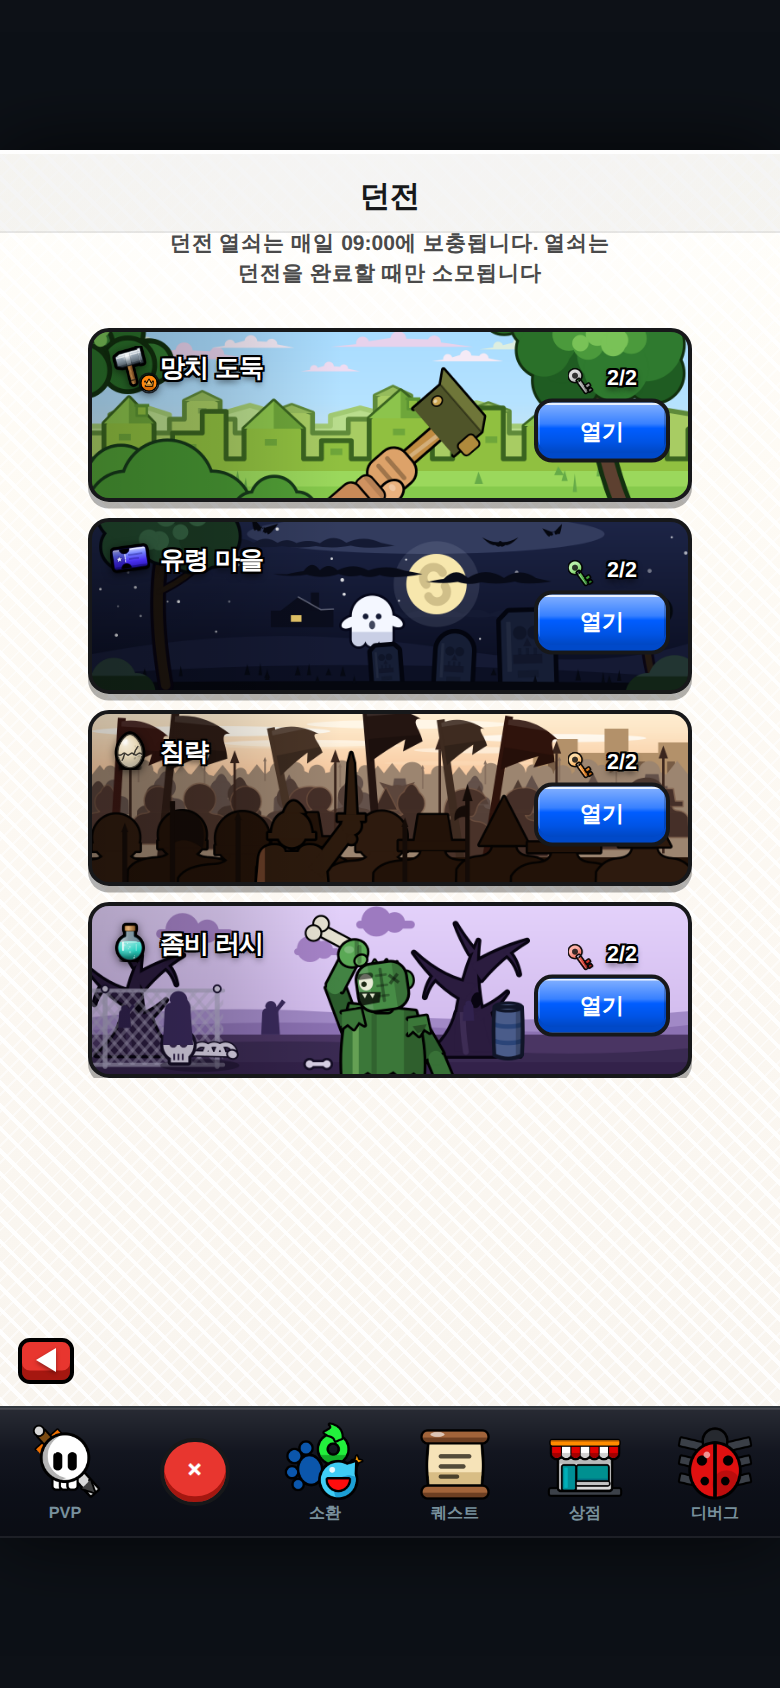
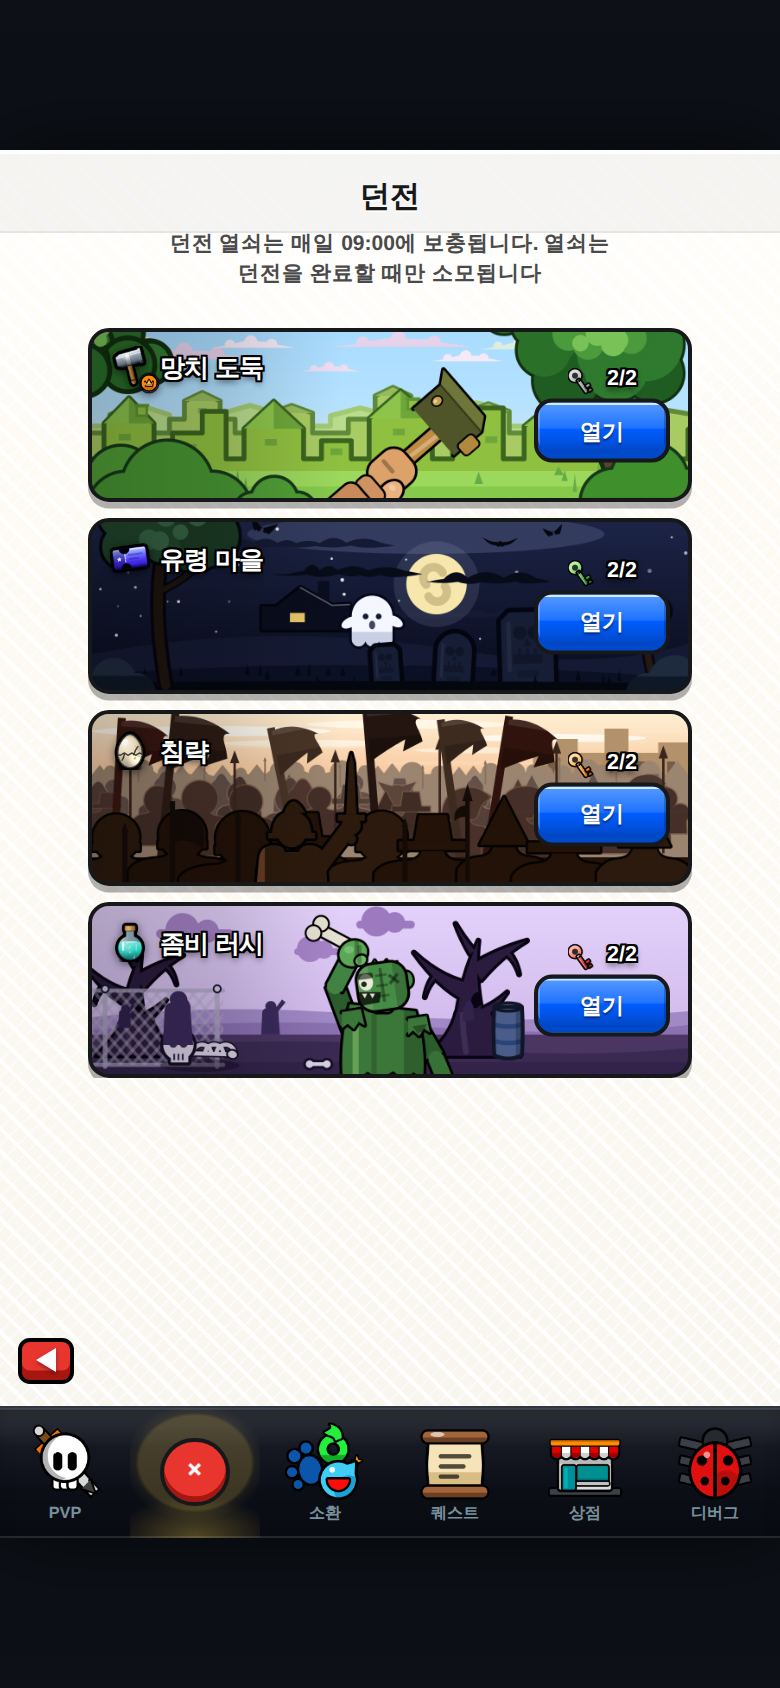
던전 행 R8 잔여 지적 ⓐⓑⓒⓔⓕ 반영 — 단독 지적이지만 **원본 대조로 실재가 확인된 것만** 채택
R8 은 2인 교집합을 앞 커밋에서 이미 반영했다. 남은 건 한쪽만 낸 지적이라, 규약대로 원본
(shot-042251) 확대 대조로 실재를 확인한 것만 골랐다.

■ ⓐ ③ 중경이 '동일 삼각형 등간격 테셀레이션'(A6) — 원본 중경은 투구가 한 명씩 갈린다: 크기 편차를 0.60 폭 → 1.05~1.10 폭으로 벌리고 세로 지터 확대, 위 밴드에도 톤 윤곽을 둘러 개체 분절. 실루엣 어휘에 **둥근 방패(kind 7)** 신설 — 투구 일변도를 깬다
■ ⓑ ① 우측 나무 줄기가 캐노피 밖으로 길게 드러나 '가로등/기둥'(A13·B7) — 원본 우측 나무는 위 모서리에서 늘어진 잎 덩어리라 줄기가 거의 안 보인다: 줄기를 1.02H→0.86H 로 짧게 하고 우하단 모서리 덤불을 하나 더해 밑동을 물렸다(원본도 우하단이 어두운 잎 덩어리)
■ ⓒ ① 주먹·팔뚝 가로 줄무늬가 '붕대/소매'(B8) — 손가락 골 2줄 관통 → **한 줄·왼 절반만**, 주먹 밑 접힘 가로선 삭제, 팔뚝 그늘을 가로 띠에서 **오른 가장자리 세로 한 단**으로 이동
■ ⓔ ② 오두막이 1x 에서 '주황 점 박힌 얼룩'(A12) — 1.4배 확대 + 순검정 키라인(스트로크→채움 합집합)으로 '집' 판독 확정
■ ⓕ ② 좌우 하단 모서리 수풀·우측 나무 잎만 채도 있는 초록이라 밤 팔레트에서 튄다(A11) — 남청 계열로 이동(#122417→#0e1826, 캐노피·달빛 림 포함)

**불채택 ⓓ ④ 좀비 얼굴 디테일 축소(A9 단독)**: 이 자리는 라운드마다 뒤집힌 곳이다 — 6차에 '정면 점눈+이빨 = 귀여운 로봇'으로 금지했다가, 그 뒤 비평가 2쌍이 연속으로 '얼굴 단서 0 = 선인장/봉제인형'이라 해서 3/4 측면 얼굴(눈 1+턱+윗니)을 채택했다. 이번엔 A 혼자 반대편을 냈고 B 는 언급이 없다. **2인 공통이 만든 결정을 1인 지적으로 되물리지 않는다** — 다음 라운드에서 2인이 같이 지적하면 그때 되물리고 근거를 남길 것.

검증: probe-dungeon-value 0/48 유지 · probe-dungeons-px 최대 편차 -1.45%p·초과 0건 · probe-dungeon-title-ink 4행 통과 · probe-screens-errors 31/31 콘솔 0 · node --check 통과 (dungeon-row-quality)

diff --git a/web/js/icongen.js b/web/js/icongen.js
@@ -3808,7 +3808,7 @@ IconGen._genderSym = function (ctx, S, female) {
             [[H * 0.026, '#12300f'], [0, '#5d4030']].forEach(([pad, c]) => {   // 줄기 2획(키라인 언더레이 — R2 공통)
                 ctx.strokeStyle = c; ctx.lineCap = 'round';
                 ctx.lineWidth = H * 0.075 + pad * 2;
-                ctx.beginPath(); ctx.moveTo(tx + H * 0.10, H * 1.02); ctx.quadraticCurveTo(tx - H * 0.06, H * 0.62, tx - H * 0.02, H * 0.30); ctx.stroke();
+                ctx.beginPath(); ctx.moveTo(tx + H * 0.07, H * 0.86); ctx.quadraticCurveTo(tx - H * 0.05, H * 0.60, tx - H * 0.02, H * 0.30); ctx.stroke();
                 ctx.lineWidth = H * 0.045 + pad * 2;
                 ctx.beginPath(); ctx.moveTo(tx - H * 0.03, H * 0.52); ctx.quadraticCurveTo(tx - H * 0.22, H * 0.42, tx - H * 0.30, H * 0.28); ctx.stroke();
                 ctx.lineCap = 'butt';
@@ -3851,6 +3851,7 @@ IconGen._genderSym = function (ctx, S, female) {
         bush(W * 0.04, H * 0.98, 1.5, '#519f36', '#16391a');
         bush(W * 0.115, H * 1.05, 2.0, '#489733', '#16391a');
         bush(W * 0.30, H * 1.06, 1.0, '#519f36', '#16391a');
+        bush(W * 0.925, H * 1.00, 1.7, '#3f8f2c', '#16391a');   // R8-2 A13·B7: 우측 나무 밑동을 모서리 덤불이 물어 '가로등 기둥' 오독 해소(원본도 우하단이 어두운 잎 덩어리다)
         // 좌상단 늘어진 수풀 — 원본은 좌우 가장자리가 잎으로 채워져 프레임이 꽉 찬다(비평가 4차 '성김')
         for (let i = 0; i < 7; i++) {
             const x = W * (-0.015 + R() * 0.115), y = H * (-0.08 + R() * 0.32), r = H * (0.105 + R() * 0.085);
@@ -3888,8 +3889,7 @@ IconGen._genderSym = function (ctx, S, female) {
            **걷어내고 한 덩어리 주먹**으로 단순화(원본의 해법 — 작고 단순한 주먹). 감아쥔 그립은
            스캘럽이 아니라 얕은 손가락 골 2줄 + 엄지가 말한다. */
         ink(ctx, S, rrect(ctx, S, -0.132, -0.145, 0.264, 0.290, 0.095), '#dda269', 0.034);
-        [-0.052, 0.026].forEach(y =>                                                      // 손가락 골(자루와 직교, 2줄만)
-            on(ctx, rrect(ctx, S, -0.104, y, 0.204, 0.030, 0.015), 'rgba(0,0,0,.28)'));
+        on(ctx, rrect(ctx, S, -0.104, -0.020, 0.118, 0.028, 0.014), 'rgba(0,0,0,.28)');   // 손가락 골 — 한 줄, 왼 절반만(가로로 관통하면 '붕대'가 된다, R8 B8)
         ink(ctx, S, ell(ctx, S, 0.100, 0.092, 0.064, 0.084), '#eab27e', 0.034);           // 엄지(감아쥔 쪽, 한 단 밝게 + 굵은 키라인)
         on(ctx, ell(ctx, S, 0.082, 0.066, 0.026, 0.020), 'rgba(255,255,255,.28)');        // 엄지 손톱 쪽 광(그립 방향 명시)
         /* 손목(잔여 결함 ⓑ): 짙은 갈색(#a8683f)이면 주먹과의 경계가 '손목 밴드 장갑'으로 읽힌다
@@ -3897,11 +3897,11 @@ IconGen._genderSym = function (ctx, S, female) {
            9차 '절단된 주먹': 손목 아래로 **소매를 프레임 밖까지** 이어 '화면 밖에서 들어온 팔'로 —
            풀밭 한가운데서 뚝 끊기면 잘린 손이 떠 있는 그림이 된다. */
         ink(ctx, S, rrect(ctx, S, -0.102, 0.132, 0.204, 0.118, 0.048), '#cf9260', 0.028);
-        on(ctx, rrect(ctx, S, -0.102, 0.132, 0.204, 0.038, 0.019), 'rgba(0,0,0,.12)');    // 주먹 밑 접힘 음영 한 줄(경계는 명도로만)
+        /* (주먹 밑 접힘 가로선은 R8 B8 '가로 줄무늬 = 붕대'로 삭제 — 손목 경계는 실루엣 폭으로만) */
         /* R4 비평가 2인 공통 '보라 소매는 원본에 없는 발명(원본은 맨팔)': 소매를 팔뚝 살빛으로
            되돌린다. 9차 '절단된 주먹' 처방(프레임 밖까지 잇는다)은 형태 그대로 유지 — 색만 살로. */
         ink(ctx, S, rrect(ctx, S, -0.135, 0.238, 0.270, 0.700, 0.060), '#c88a58', 0.030); // 팔뚝(맨팔) — 프레임 하단 크롭 밖까지(0.86 축소분만큼 길이 보정)
-        on(ctx, rrect(ctx, S, -0.135, 0.620, 0.270, 0.318, 0.060), 'rgba(0,0,0,.14)');    // 팔뚝 하단 그늘(명암 한 단)
+        on(ctx, rrect(ctx, S, 0.045, 0.250, 0.092, 0.700, 0.046), 'rgba(0,0,0,.16)');     // 팔뚝 그늘 — 가로 띠가 아니라 **오른 가장자리 세로 한 단**(R8 B8)
         ctx.restore();
         ctx.save();                                                                       // 머리 — 자루 끝(우상단)
         // 머리 상자는 세로(local y)가 장축 = 자루와 직교하려면 회전각이 자루 기울기 그대로여야 한다.
@@ -4060,13 +4060,14 @@ IconGen._genderSym = function (ctx, S, female) {
             /* 2차 재채점 2인 공통 1순위: #10142b 는 하늘과 명도가 붙어 창문만 '허공에 뜬 주황 조각'이
                됐다 — 언덕(#151a34)보다 더 어두운 흑청으로 낮추고, 지붕을 키우고, 달 쪽(오른쪽)
                지붕선에 달빛 림라이트 한 줄을 얹어 '집 → 창' 소속을 명시한다. */
-            const hx = W * 0.30, hy = H * 0.625, hw = W * 0.105, hh = H * 0.175;
+            const hx = W * 0.285, hy = H * 0.640, hw = W * 0.147, hh = H * 0.245;   // R8-2 A12: 1.4배 — 종전 크기는 302px 에서 '주황 점 박힌 얼룩'이었다
             const house = () => {
                 ctx.moveTo(hx, hy); ctx.lineTo(hx, hy - hh * 0.55);
                 ctx.lineTo(hx + hw * 0.16, hy - hh * 0.55); ctx.lineTo(hx + hw * 0.44, hy - hh);   // 꺾인 박공(크게)
                 ctx.lineTo(hx + hw * 0.80, hy - hh * 0.58); ctx.lineTo(hx + hw, hy - hh * 0.60);
                 ctx.lineTo(hx + hw, hy); ctx.closePath();
             };
+            ctx.beginPath(); house(); ctx.strokeStyle = '#03050e'; ctx.lineWidth = H * 0.030; ctx.lineJoin = 'round'; ctx.stroke();   // 키라인(스트로크→채움 = 합집합 실루엣)
             fill(ctx, '#0a0d1d', house);
             fill(ctx, '#0a0d1d', () => ctx.rect(hx + hw * 0.64, hy - hh * 1.15, hw * 0.13, hh * 0.58));   // 굴뚝
             ctx.strokeStyle = 'rgba(210,215,235,.40)'; ctx.lineWidth = H * 0.008;                          // 달빛 림(달 쪽 지붕선)
@@ -4184,11 +4185,11 @@ IconGen._genderSym = function (ctx, S, female) {
             trunkStroke(t + H * 0.030, '#0a0614'); trunkStroke(t, '#241a12');   // 키라인 언더레이(R2 공통)
             const blobs = [];
             for (let i = 0; i < 5; i++)                                    // 작은 캐노피(좌측 나무와 같은 어두운 초록 계열)
-                blobs.push([x + H * (-0.16 + R() * 0.24), H * (0.525 + R() * 0.07), H * (0.05 + R() * 0.032), i % 2 ? '#16301f' : '#1c3a28']);
+                blobs.push([x + H * (-0.16 + R() * 0.24), H * (0.525 + R() * 0.07), H * (0.05 + R() * 0.032), i % 2 ? '#141f2c' : '#1a2838']);
             ctx.strokeStyle = '#04080e'; ctx.lineWidth = H * 0.032;
             blobs.forEach(([lx, ly, r]) => { ctx.beginPath(); ctx.arc(lx, ly, r, 0, Math.PI * 2); ctx.stroke(); });
             blobs.forEach(([lx, ly, r, c]) => fill(ctx, c, () => ctx.arc(lx, ly, r, 0, Math.PI * 2)));
-            fill(ctx, '#2a4f33', () => ctx.arc(x - H * 0.03, H * 0.525, H * 0.028, 0, Math.PI * 2));   // 달빛 림 혹 하나
+            fill(ctx, '#2c3d55', () => ctx.arc(x - H * 0.03, H * 0.525, H * 0.028, 0, Math.PI * 2));   // 달빛 림 혹 하나
         })();
         // 모서리 덤불 — 우하단(묘비 앞)·좌하단. 원본 네 모서리의 어두운 초록 덩어리.
         const dbush = (bx, by, s) => {
@@ -4196,7 +4197,7 @@ IconGen._genderSym = function (ctx, S, female) {
             ctx.arc(bx - H * 0.10 * s, by, H * 0.10 * s, 0, Math.PI * 2);
             ctx.arc(bx + H * 0.02 * s, by - H * 0.06 * s, H * 0.12 * s, 0, Math.PI * 2);
             ctx.arc(bx + H * 0.14 * s, by, H * 0.10 * s, 0, Math.PI * 2);
-            ctx.fillStyle = '#122417'; ctx.fill();
+            ctx.fillStyle = '#0e1826'; ctx.fill();   // R8-2 A11: 초록 채도를 걷고 밤(남청) 계열로 — 이 두 덩어리만 1행 팔레트처럼 튀었다
             ctx.save();                                                    // 달빛 셀 라이트 한 단(R3 B ⓓ) — 윗변만 밝혀 덩어리의 위아래를 가른다
             ctx.beginPath();
             ctx.arc(bx - H * 0.10 * s, by, H * 0.10 * s, 0, Math.PI * 2);
@@ -4303,6 +4304,8 @@ IconGen._genderSym = function (ctx, S, female) {
             }
             if (kind === 4)                                                // 볏 — 정수리 지느러미 한 장(키를 올려 실루엣 분화)
                 paths.push(() => { ctx.moveTo(x - r * 0.58, y - r * 0.72); ctx.quadraticCurveTo(x + r * 0.05, y - r * 2.15, x + r * 0.62, y - r * 0.72); ctx.closePath(); });
+            if (kind === 7)                                                // R8-2: 어깨 옆 둥근 방패 — 투구 일변도의 어휘를 깬다(A6 '실루엣 어휘 혼합')
+                paths.push(() => ctx.arc(x + r * 1.30, y + r * 1.35, r * 0.86, 0, Math.PI * 2));
             if (kind === 6)                                                // R4: 둥근 투구 돔 + 넓은 챙 — 전경 '삼각 융기=산맥' 오독(2인 공통) 해소용 기본 종
                 paths.push(() => ctx.rect(x - r * 1.02, y + r * 0.26, r * 2.04, r * 0.32));
             paths.push(() => {                                             // 어깨(넓고 낮게) + 목 노치
@@ -4333,14 +4336,14 @@ IconGen._genderSym = function (ctx, S, female) {
         const MIDC_HI = ['#544038', '#4b3830', '#5c463c', '#503c32'];   // R8 값게이트: 원본 중경 실측 #403030(L52) 대역
         const MIDC = ['#493229', '#402c25', '#503730', '#452f28'];      // R8-2: 중경은 원본 실측 #403030(L52) 자리로 되돌리고 근흑은 근경 전용으로 — 두 층이 같은 값이면 사다리가 없다      // R8 값게이트: 원본 전경 실측 #201010(L21) 직전 단         // 색·키·크기를 함께 흔들어 타일링 패턴을 깬다
         const pickKind = k =>                                              // 6종 혼합(ⓐ) — 뾰족·뿔은 드물게(9차 '삼각형 정체불명')
-            k < 0.28 ? 0 : k < 0.42 ? 1 : k < 0.62 ? 3 : k < 0.86 ? 4 : k < 0.96 ? 5 : 2;   // R6 A '중경 사각 블록': 챙(5) 빈도 축소
+            k < 0.24 ? 0 : k < 0.36 ? 1 : k < 0.54 ? 3 : k < 0.74 ? 4 : k < 0.86 ? 5 : k < 0.94 ? 7 : 2;   // R6 A '중경 사각 블록': 챙(5) 빈도 축소
         /* R1 비평가 2인 공통 '중경 군중 뭉개짐/외곽선 부재': 아래 밴드에 어두운 갈색 얇은 윤곽을
            둘러 인물 한 명 한 명이 분절되게 한다(검정이면 전경 열과 층이 안 갈리므로 톤 윤곽).
            밀도도 한 단 올린다(성겨서 '대군'의 압박감이 약하다는 공통 지적). */
         for (let i = 0; i < 10; i++)                                       // 위 밴드(밝게)
-            figure(W * (i / 10 - 0.004 + R() * 0.055), H * (0.468 + R() * 0.045), 1.00 + R() * 0.60, MIDC_HI[(R() * 4) | 0], pickKind(R()));
+            figure(W * (i / 10 - 0.004 + R() * 0.055), H * (0.462 + R() * 0.062), 0.82 + R() * 1.05, MIDC_HI[(R() * 4) | 0], pickKind(R()), 'rgba(152,118,96,.55)');
         for (let i = 0; i < 13; i++)                                       // 아래 밴드(기존 명도 + 톤 윤곽)
-            figure(W * (i / 13 - 0.004 + R() * 0.050), H * (0.505 + R() * 0.050), 1.10 + R() * 0.60, MIDC[(R() * 4) | 0], pickKind(R()), 'rgba(120,86,66,.60)');   // 근흑 채움 위 어두운 윤곽은 안 보인다 — 윤곽을 채움보다 **밝게** 뒤집어 분절을 살린다
+            figure(W * (i / 13 - 0.004 + R() * 0.050), H * (0.498 + R() * 0.068), 0.90 + R() * 1.10, MIDC[(R() * 4) | 0], pickKind(R()), 'rgba(120,86,66,.60)');   // 근흑 채움 위 어두운 윤곽은 안 보인다 — 윤곽을 채움보다 **밝게** 뒤집어 분절을 살린다
         // 창 — 군중 사이에서 올라오는 자루+창끝
         for (let i = 0; i < 6; i++) {
             const x = W * (0.06 + i * 0.17 + R() * 0.05), top = H * (0.18 + R() * 0.14);
